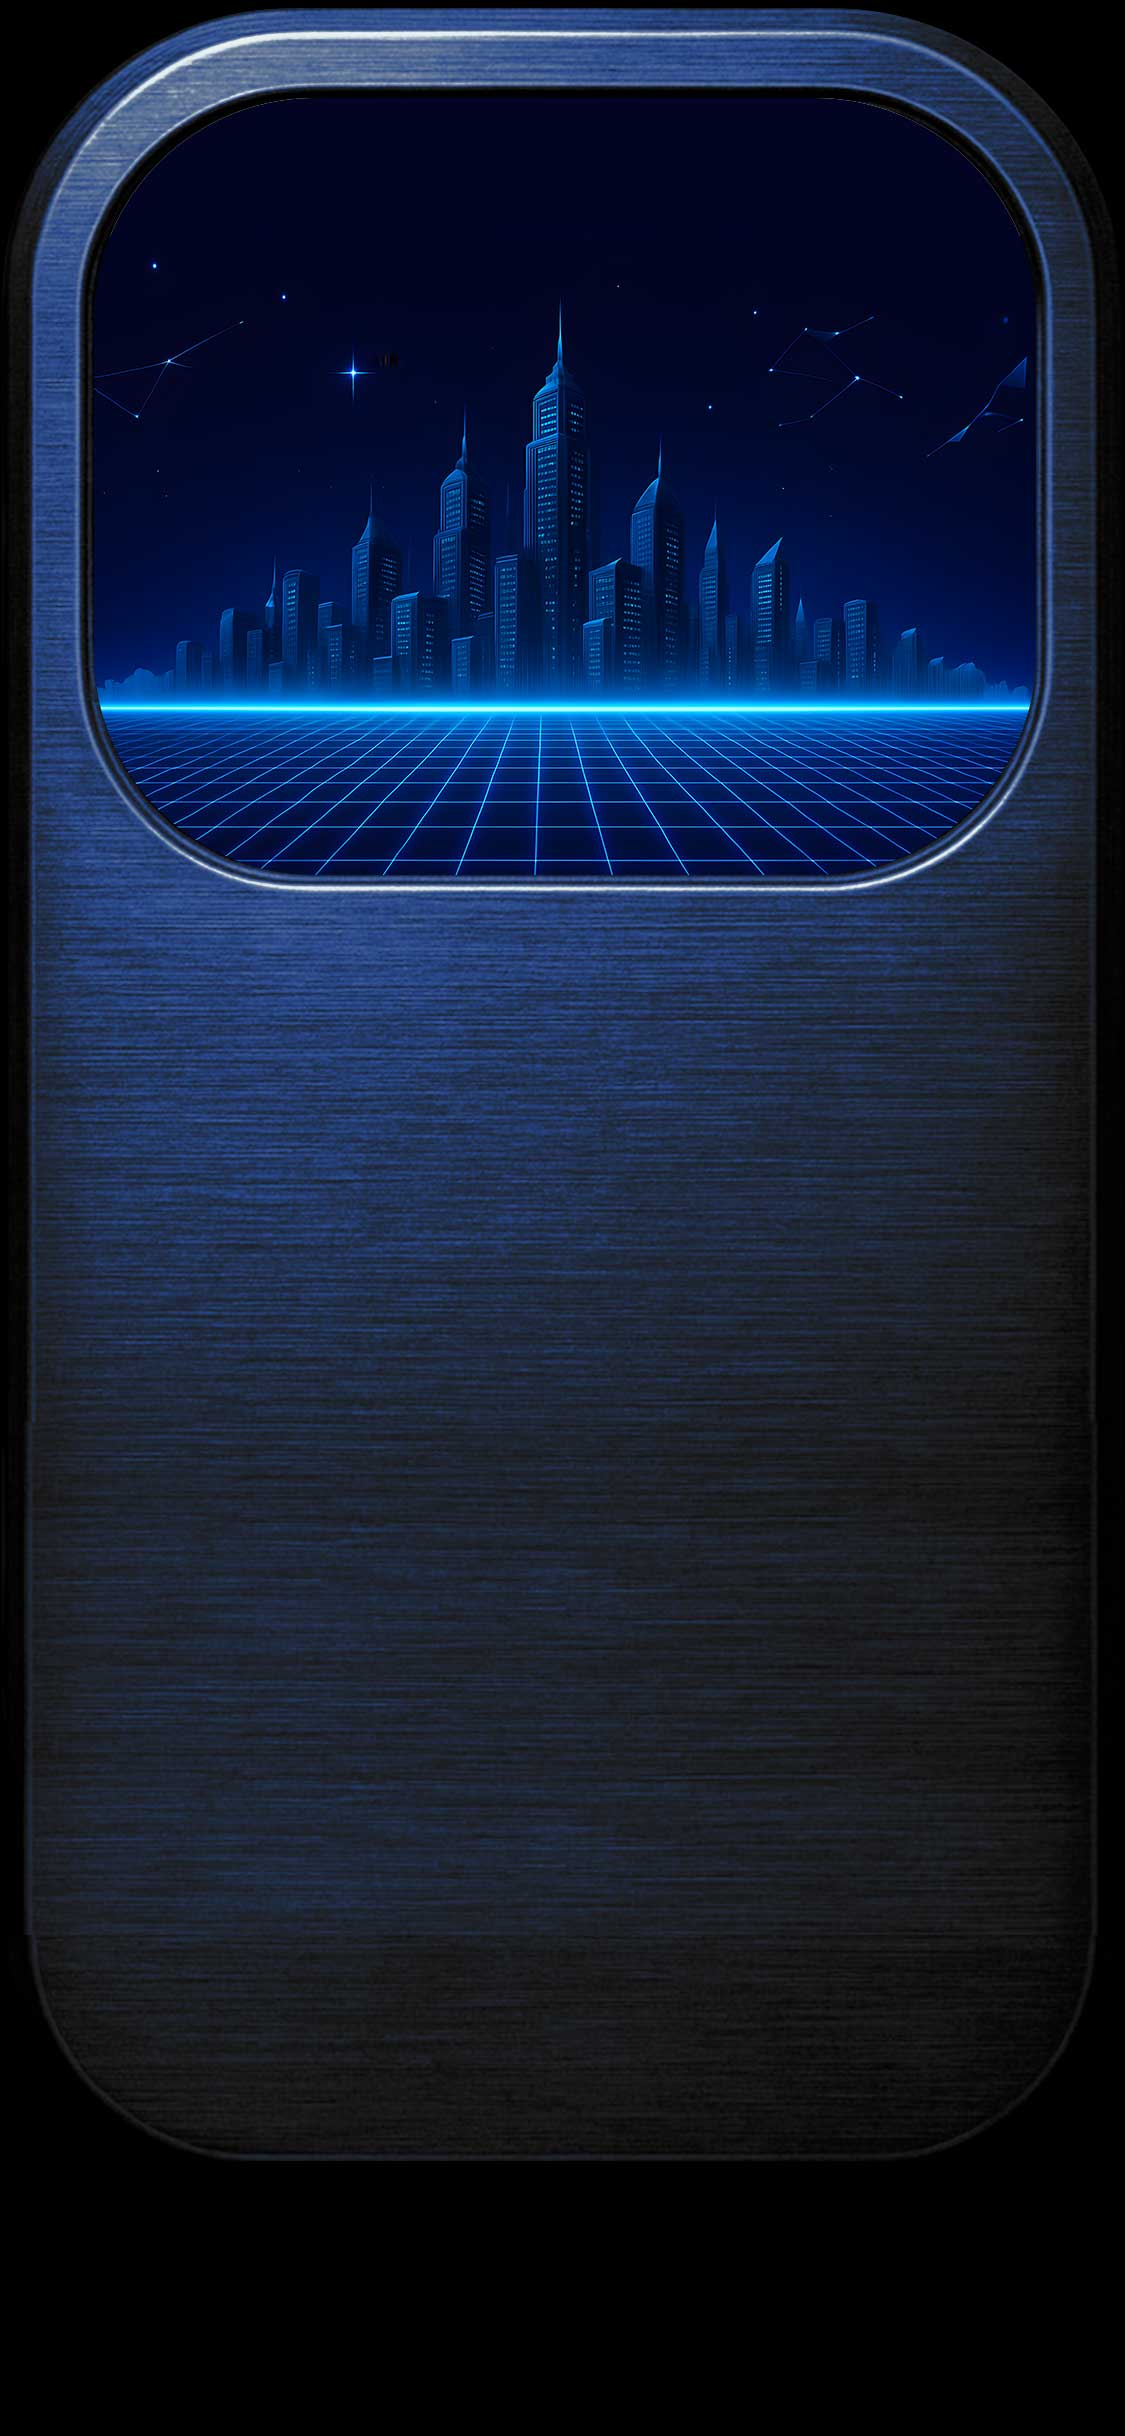
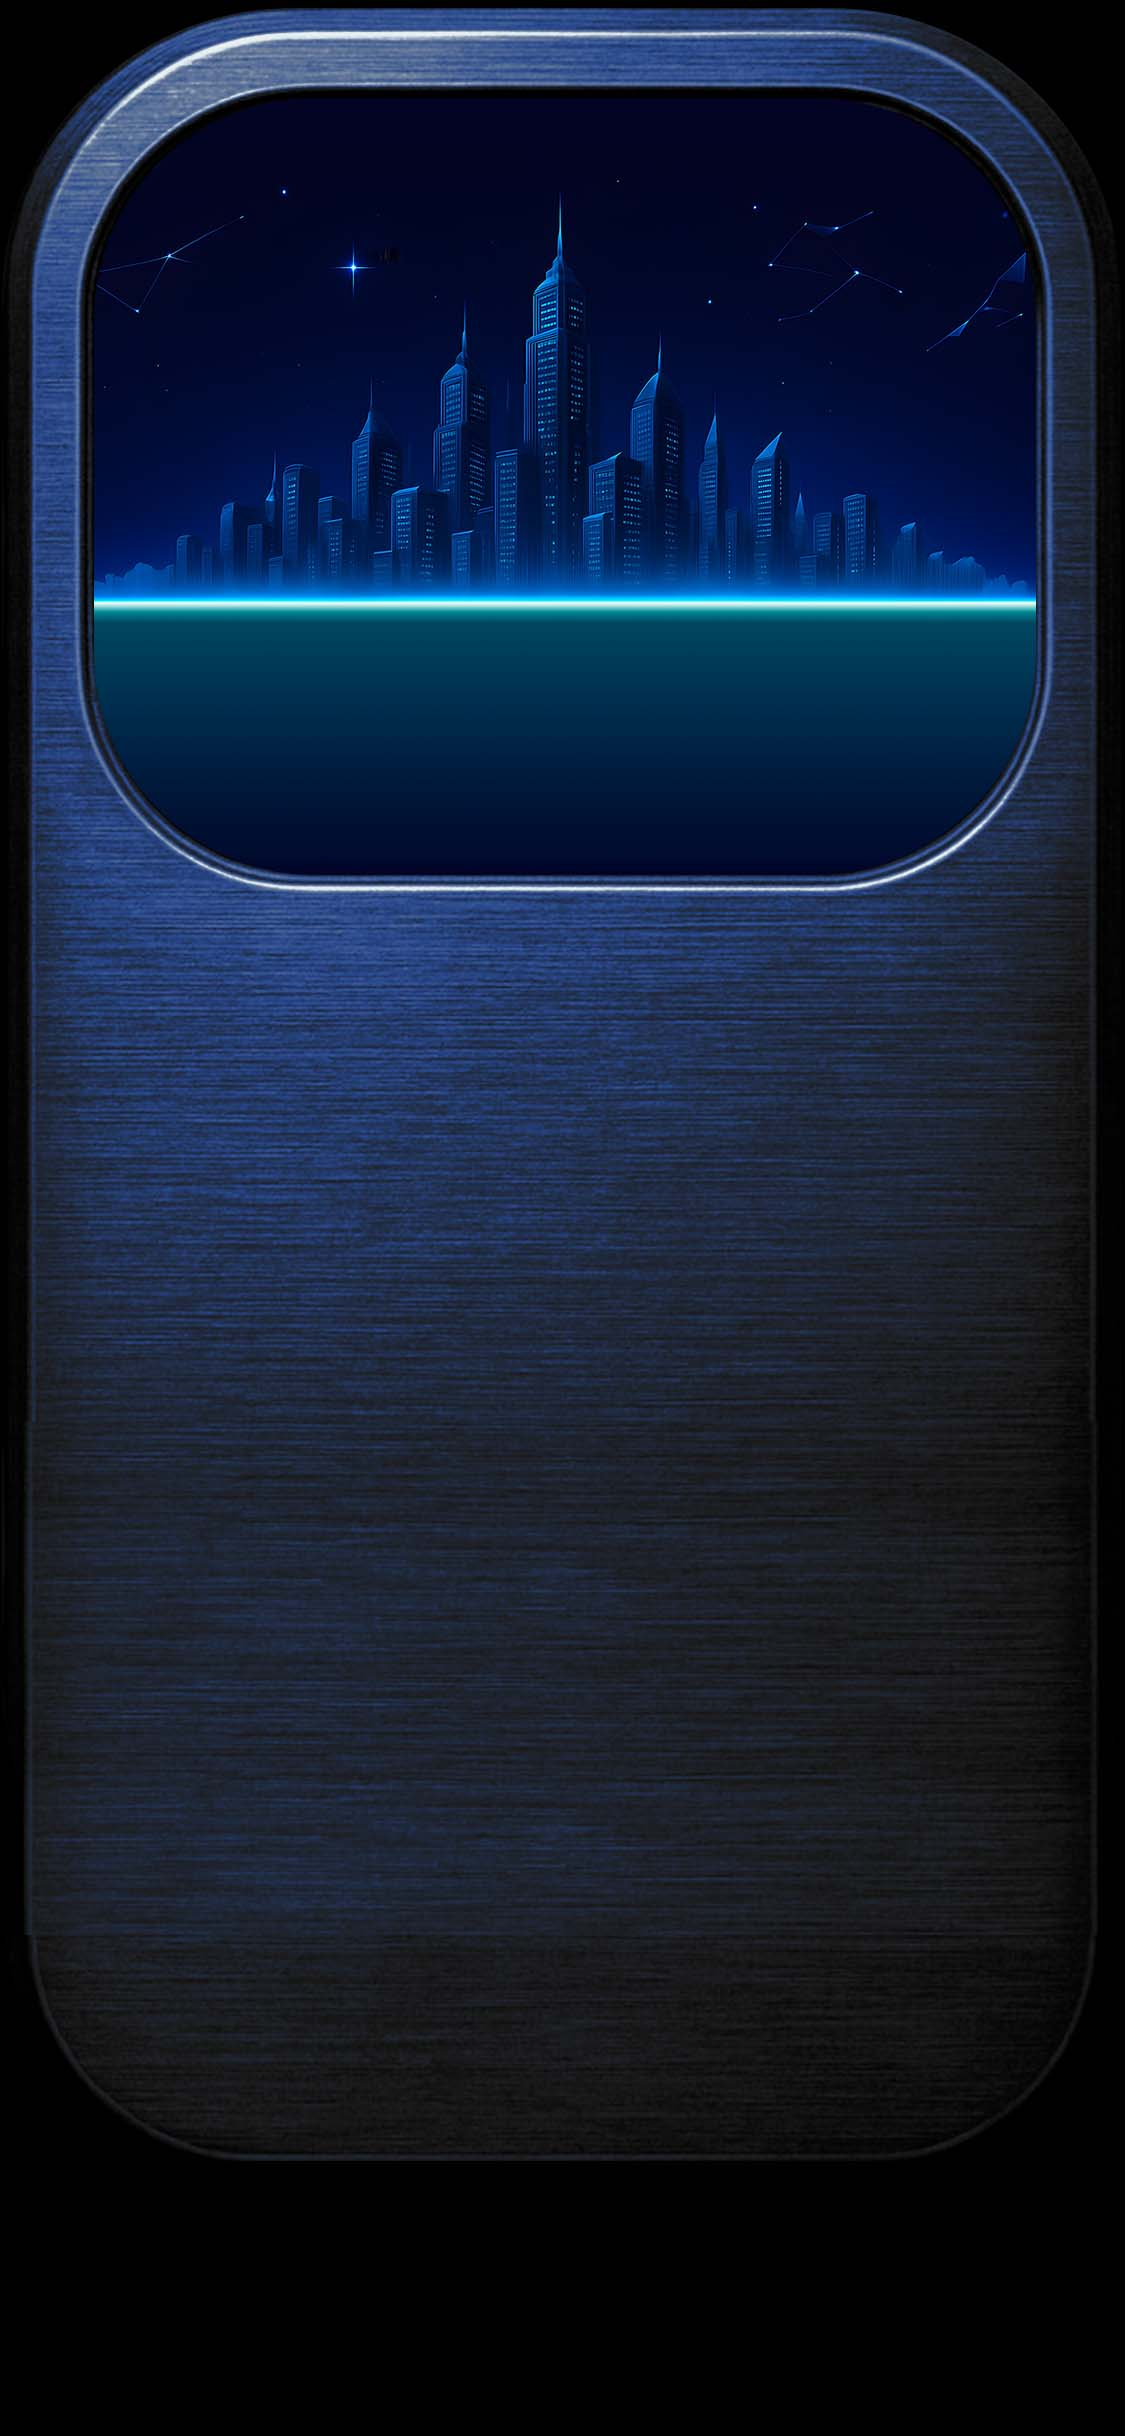
looks good

Changed region(s): [[0.0622, 0.0936, 0.9333, 0.3744], [0.9022, 0.0936, 0.9333, 0.1248], [0.3111, 0.0936, 0.3422, 0.1248]]

diff --git a/animation.js b/animation.js
@@ -1,0 +1,68 @@
+import * as THREE from "three";
+import { GridSystem } from "./GridSystem.js";
+
+export function initAnimation(container) {
+  const renderer = new THREE.WebGLRenderer({
+    antialias: true,
+    alpha: true,
+  });
+  renderer.setClearColor(0x000000, 0);
+  renderer.setPixelRatio(Math.min(window.devicePixelRatio, 2));
+  renderer.outputColorSpace = THREE.SRGBColorSpace;
+  renderer.toneMapping = THREE.ACESFilmicToneMapping;
+  renderer.toneMappingExposure = 1.35;
+  
+  const { width: initialW, height: initialH } = container.getBoundingClientRect();
+  renderer.setSize(initialW, initialH);
+  container.appendChild(renderer.domElement);
+
+  const scene = new THREE.Scene();
+  scene.fog = new THREE.FogExp2(0x007385, 0.04);
+
+  const camera = new THREE.PerspectiveCamera(
+    65,
+    initialW / initialH,
+    0.1,
+    2000
+  );
+  camera.position.set(0, 14, 26);
+  camera.lookAt(0, -6, 0);
+
+  const light = new THREE.DirectionalLight(0xffffff, 0.6);
+  light.position.set(10, 40, 10);
+  scene.add(light);
+
+  const fill = new THREE.AmbientLight(0x402060, 0.85);
+  scene.add(fill);
+
+  const gridSystem = new GridSystem({
+    scene,
+    size: 400,
+    divisions: 40,
+    color: 0x5cbcf0,
+    opacity: 0.6,
+    speed: 0.2, // Slowest speed
+  });
+
+
+  let prevTime = performance.now();
+
+  function handleResize() {
+    const { width, height } = container.getBoundingClientRect();
+    renderer.setSize(width, height);
+    camera.aspect = width / height;
+    camera.updateProjectionMatrix();
+  }
+
+  function renderLoop(now) {
+    requestAnimationFrame(renderLoop);
+    const delta = (now - prevTime) / 1000;
+    prevTime = now;
+
+    gridSystem.update(delta);
+    renderer.render(scene, camera);
+  }
+
+  requestAnimationFrame(renderLoop);
+  window.addEventListener("resize", handleResize);
+}

diff --git a/GridSystem.js b/GridSystem.js
@@ -1,0 +1,61 @@
+import * as THREE from "three";
+
+/**
+ * GridSystem
+ * ----------
+ * A reusable synthwave-style infinite grid built on top of THREE.GridHelper.
+ * You can drop this into other Three.js scenes by:
+ *
+ *   const gridSystem = new GridSystem({ scene });
+ *   gridSystem.update(dt);
+ */
+export class GridSystem {
+  constructor({
+    scene,
+    size = 500,
+    divisions = 10,
+    color = 0xff00ff,
+    opacity = 0.65,
+    speed = 0.9,
+  }) {
+    this.scene = scene;
+    this.speed = speed;
+    this._baseSpeed = speed;
+
+    const grid = new THREE.GridHelper(size, divisions, color, color);
+    grid.material.opacity = opacity;
+    grid.material.transparent = true;
+    grid.material.blending = THREE.AdditiveBlending;
+    grid.position.set(0, 3, 0);
+    scene.add(grid);
+
+    const glowGrid = new THREE.GridHelper(size, divisions, color, color);
+    glowGrid.material.opacity = 0.2;
+    glowGrid.material.transparent = true;
+    glowGrid.material.blending = THREE.AdditiveBlending;
+    glowGrid.position.set(0, 3.1, 0);
+    scene.add(glowGrid);
+
+    this.grid = grid;
+    this.glowGrid = glowGrid;
+    this.offset = 0;
+    this.segmentLength = size / divisions; // world units between grid rows
+  }
+
+  setSpeed(multiplier) {
+    this.speed = this._baseSpeed * multiplier;
+  }
+
+  setBaseSpeed(speed) {
+    this._baseSpeed = speed;
+    this.speed = speed;
+  }
+
+  update(delta) {
+    const distance = this.speed * delta * 60; // normalize vs. 60fps
+    this.offset += distance;
+    // Using modulo keeps it "endless"
+    this.grid.position.z = this.offset % (this.segmentLength * 2);
+    this.glowGrid.position.z = this.grid.position.z;
+  }
+}

diff --git a/index.html b/index.html
@@ -11,8 +11,9 @@
   <main class="app">
     <section class="panel" aria-label="Control panel">
       <div class="screen">
-        <div class="amount" id="amountDisplay">$1,000.00</div>
+        <div id="animation-container"></div>
       </div>
+      <div class="amount" id="amountDisplay">$1,000.00</div>
 
       <div class="control-grid">
         <div class="knob-group knob-group--left">
@@ -221,6 +222,22 @@
 
     updateAmountDisplay();
     updateModeUi();
+  </script>
+
+  <script type="importmap">
+    {
+      "imports": {
+        "three": "https://cdn.skypack.dev/three@0.132.2",
+        "three/examples/jsm/postprocessing/EffectComposer.js": "https://cdn.skypack.dev/three@0.132.2/examples/jsm/postprocessing/EffectComposer.js",
+        "three/examples/jsm/postprocessing/RenderPass.js": "https://cdn.skypack.dev/three@0.132.2/examples/jsm/postprocessing/RenderPass.js",
+        "three/examples/jsm/postprocessing/UnrealBloomPass.js": "https://cdn.skypack.dev/three@0.132.2/examples/jsm/postprocessing/UnrealBloomPass.js"
+      }
+    }
+  </script>
+  <script type="module">
+    import { initAnimation } from './animation.js';
+    const animationContainer = document.getElementById('animation-container');
+    initAnimation(animationContainer);
   </script>
 </body>
 </html>

diff --git a/style.css b/style.css
@@ -38,23 +38,40 @@
     }
     .screen {
       position: absolute;
-      top: 50px;
-      left: 50px;
-      right: 50px;
-      height: 32%;
+      top: 300px;
+      left: 47px;
+      right: 43px;
+      height: 11.5%;
       overflow: hidden;
+      border-bottom-left-radius: 112px;
+      border-bottom-right-radius: 112px;
       display: grid;
       place-items: top;
       text-align: center;
       padding: 12px;
+      background: #8b788400;
     }
+
+    #animation-container {
+      position: absolute;
+      top: 0;
+      left: 0;
+      width: 100%;
+      height: 100%;
+      z-index: 1;
+    }
+
     .amount {
-      position: relative;
+      position: absolute;
+      top: 8%;
+      left: 50%;
+      transform: translateX(-50%);
       font-family: 'Orbitron', 'Inter', system-ui, sans-serif;
       font-size: clamp(1.8rem, 3vw, 2.5rem);
       font-weight: 700;
       letter-spacing: 0.04em;
       text-shadow: 0 0 12px rgba(47, 208, 255, 0.65);
+      z-index: 2;
     }
     .mode-tag {
       width: clamp(100px, 28vw, 140px);
